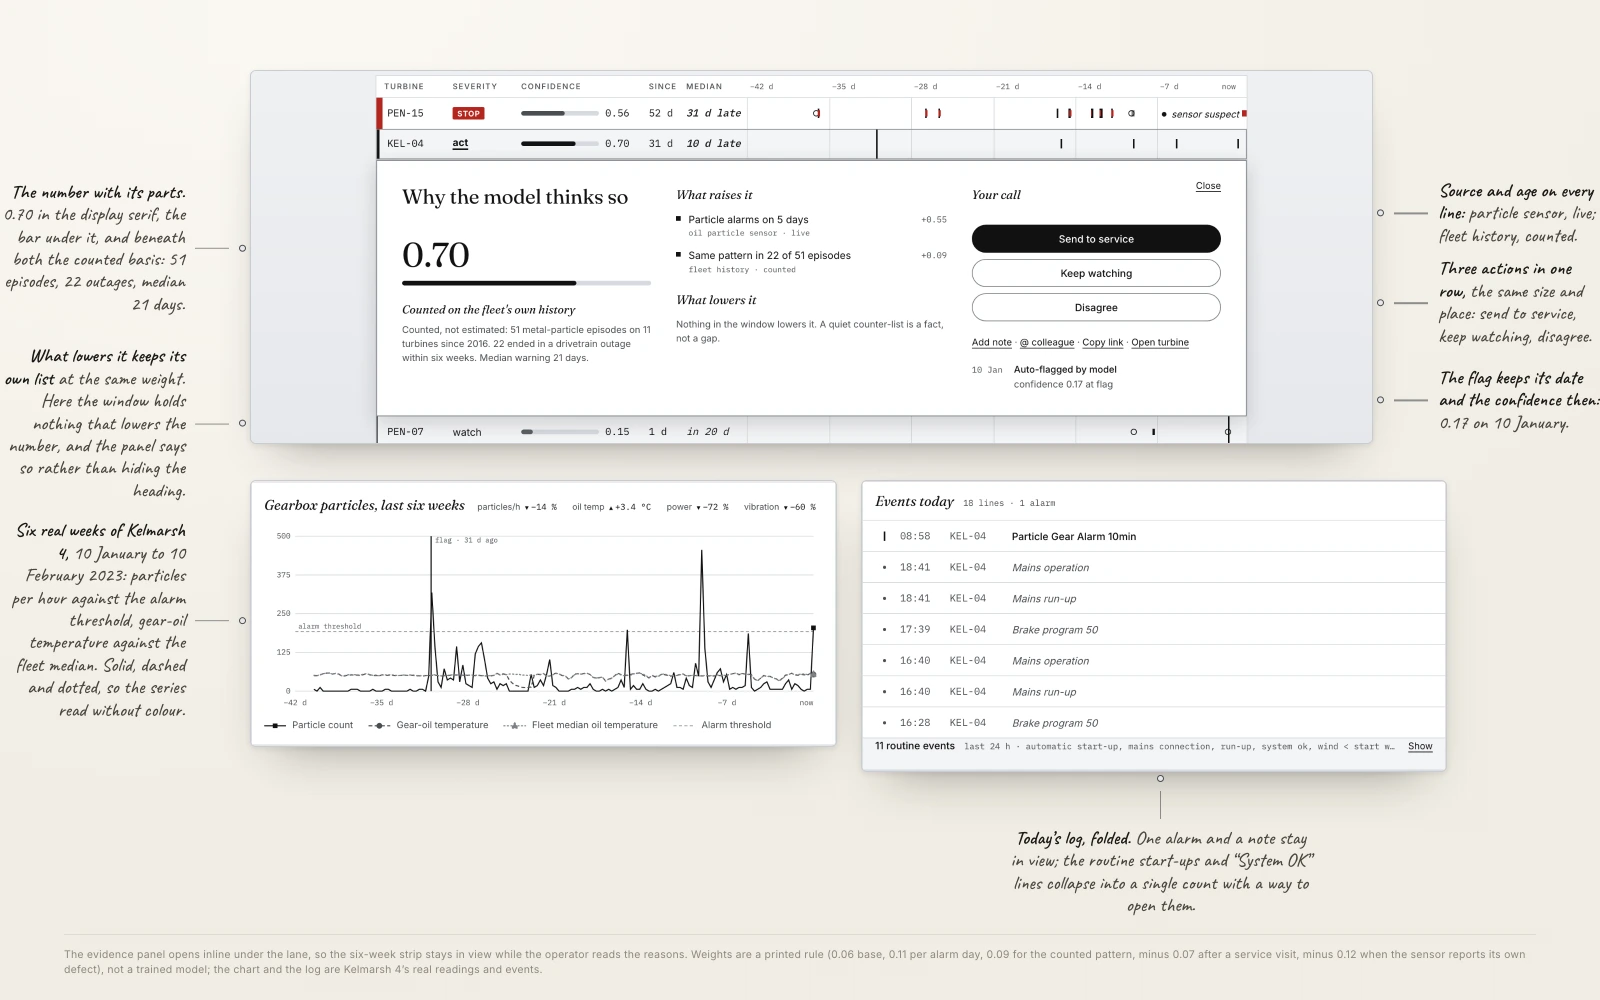
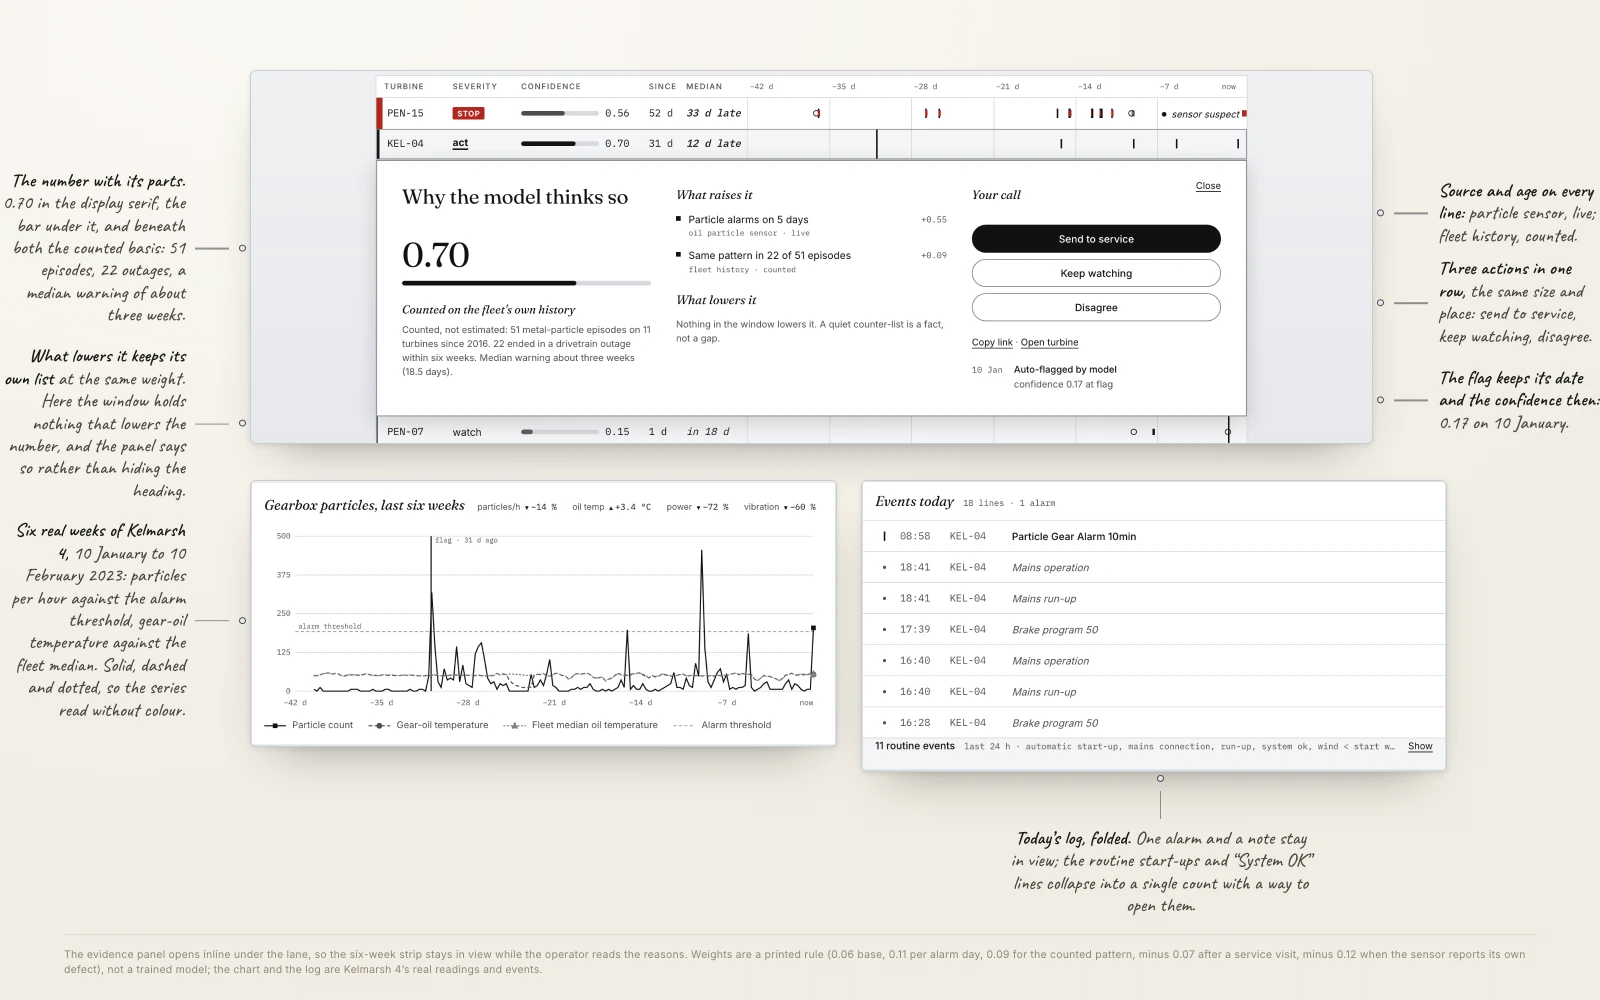
Metal in the oil: the median warning is 18.5 days, said as about three weeks
The 22 lead times have two middle values, 16 and 21; the earlier count took
the upper one. The page, the stats block and the basis plate now carry the
textbook median, the prose says about three weeks, and the plates are
re-captured from the prototype, which rounds to 19 whole days for its
lane arithmetic and says so.

Changed region(s): [[0.0, 0.155, 0.125, 0.341], [0.625, 0.341, 0.75, 0.372], [0.3438, 0.341, 0.375, 0.372]]

diff --git a/fleet-console.html b/fleet-console.html
@@ -484,7 +484,7 @@ footer.foot .next-h em{font-style:italic;color:var(--accent);}
     <div class="g-row"><div class="g-k">Problem</div><div class="g-v">An operator watching twenty turbines gets a flag from a failure model: this gearbox is probably failing. Sending a technician costs money and&nbsp;the technician may find nothing. Not sending risks a part that needs a crane to replace. In nine years of logs from these exact machines, the signal behind that flag was <strong>right 22 times out of 51</strong>. A screen that prints the percentage and&nbsp;stops has made the decision for the operator and&nbsp;kept the reason to itself.</div></div>
     <div class="g-row"><div class="g-k">My role</div><div class="g-v"><strong>Product designer, working alone.</strong> I chose the problem, found the open dataset and&nbsp;set the scope. I counted the base rates the interface quotes, built the token set and&nbsp;the component library in Figma, then wrote the prototype in code against those same tokens. Base primitives come from the shadcn/ui Figma kit; the Figma scaffolding and&nbsp;the code were built with Claude at my side, from my spec, and&nbsp;every value and&nbsp;every decision on the screens is mine.</div></div>
     <div class="g-row"><div class="g-k">Value</div>
-      <ul class="g-list"><li><strong>22 of 51:</strong> every number the interface quotes is counted from nine years of real turbine logs, not invented for a mockup</li><li><strong>Median 21 days:</strong> the warning a true flag buys, which is what makes “keep watching” a real option instead of a polite one</li><li><strong>One token chain:</strong> Figma variables to CSS custom properties to a Tailwind theme, so the library and&nbsp;the running prototype cannot drift apart</li></ul>
+      <ul class="g-list"><li><strong>22 of 51:</strong> every number the interface quotes is counted from nine years of real turbine logs, not invented for a mockup</li><li><strong>About three weeks of warning:</strong> the median lead a true flag buys, which is what makes “keep watching” a real option instead of a polite one</li><li><strong>One token chain:</strong> Figma variables to CSS custom properties to a Tailwind theme, so the library and&nbsp;the running prototype cannot drift apart</li></ul>
     </div>
     <div class="g-row"><div class="g-k">Try it</div>
       <div class="g-links"><a class="g-live-link" href="https://violawojcik.github.io/fleet-console/" target="_blank" rel="noopener">Open the prototype<svg viewBox="0 0 24 24"><path d="M7 17L17 7M17 7H9M17 7v8"></path></svg></a><a class="g-live-link g-live-link--alt" href="https://www.figma.com/design/MZInnUxno6SY95v9W7D4ap/" target="_blank" rel="noopener">Open the Figma file<svg viewBox="0 0 24 24"><path d="M7 17L17 7M17 7H9M17 7v8"></path></svg></a></div>
@@ -501,10 +501,10 @@ footer.foot .next-h em{font-style:italic;color:var(--accent);}
       <figcaption><span>The fleet as lanes: one turbine per row over the last six weeks, frozen on 10 February 2023, the day Kelmarsh 4 stopped itself. Twenty real machines; every mark is a logged event. Capture of the working prototype.</span></figcaption>
     </figure></section><section class="sec" id="data"><div class="col">
       <div class="eyebrow"><b>02</b> · The data</div>
-      <h2 class="h">Everything the interface claims is counted from nine years of real turbine logs</h2><p>There is no invented client here and&nbsp;no fictional brief. The console runs on <strong>open SCADA data from two British wind farms</strong>, Kelmarsh and&nbsp;Penmanshiel, released by Cubico Sustainable Investments under CC-BY-4.0: twenty Senvion turbines, readings every ten minutes, <strong>1.57 million logged events between 2016 and&nbsp;2024</strong>.</p><p>The signals the model leans on are real and&nbsp;they are named in the export: gear oil temperature, gear oil inlet pressure, front and&nbsp;rear bearing temperature, drive train acceleration, and&nbsp;a metal particle count in the gear oil. Of <strong>299 columns, 107 carry data and&nbsp;191 are empty for the whole year.</strong> The export marks anything missing or erroneous as NaN rather than zero, which is the distinction the interface has to keep: <strong>a zero is a measurement, a blank is the absence of one.</strong></p><p>The sentence the confidence panel quotes is counted, not assumed. Across both farms I grouped the metal particle alarms into episodes, alarms on one machine less than fourteen days apart, and&nbsp;checked what followed each one. <strong>Fifty-one episodes on eleven turbines. Twenty-two ended in a drivetrain forced outage inside six weeks.</strong> When the signal was right, the median warning it bought was twenty-one days; four times it bought none at all.</p><p>One number needed correcting before it could be used. The condition monitoring channels show only 65% coverage across 2016, which looks like a sensor dropping out. It is not. <strong>Those channels do not exist before May 2016 and&nbsp;run at 95 to 100% afterwards</strong>, so the gap is a commissioning date, not a fault. An interface built on the first reading would have been designed around a problem that was never there.</p></div><figure class="fig reveal wide">
+      <h2 class="h">Everything the interface claims is counted from nine years of real turbine logs</h2><p>There is no invented client here and&nbsp;no fictional brief. The console runs on <strong>open SCADA data from two British wind farms</strong>, Kelmarsh and&nbsp;Penmanshiel, released by Cubico Sustainable Investments under CC-BY-4.0: twenty Senvion turbines, readings every ten minutes, <strong>1.57 million logged events between 2016 and&nbsp;2024</strong>.</p><p>The signals the model leans on are real and&nbsp;they are named in the export: gear oil temperature, gear oil inlet pressure, front and&nbsp;rear bearing temperature, drive train acceleration, and&nbsp;a metal particle count in the gear oil. Of <strong>299 columns, 107 carry data and&nbsp;191 are empty for the whole year.</strong> The export marks anything missing or erroneous as NaN rather than zero, which is the distinction the interface has to keep: <strong>a zero is a measurement, a blank is the absence of one.</strong></p><p>The sentence the confidence panel quotes is counted, not assumed. Across both farms I grouped the metal particle alarms into episodes, alarms on one machine less than fourteen days apart, and&nbsp;checked what followed each one. <strong>Fifty-one episodes on eleven turbines. Twenty-two ended in a drivetrain forced outage inside six weeks.</strong> When the signal was right, the warning it bought was about three weeks: a median of 18.5 days, four times none at all.</p><p>One number needed correcting before it could be used. The condition monitoring channels show only 65% coverage across 2016, which looks like a sensor dropping out. It is not. <strong>Those channels do not exist before May 2016 and&nbsp;run at 95 to 100% afterwards</strong>, so the gap is a commissioning date, not a fault. An interface built on the first reading would have been designed around a problem that was never there.</p></div><figure class="fig reveal wide">
       <img src="fleet-console/assets/basis.webp" alt="The only sheet in this case study that is not a screen: 51 metal-particle alarm episodes on 11 of 20 turbines, 2016 to 2024, and how much warning the 22 true ones gave. Counted from 1.57 million logged events." loading="lazy">
       <figcaption><span>The only sheet in this case study that is not a screen: 51 metal-particle alarm episodes on 11 of 20 turbines, 2016 to 2024, and&nbsp;how much warning the 22 true ones gave. Counted from 1.57 million logged events.</span></figcaption>
-    </figure><div class="col"><div class="stats reveal"><div class="src">Counted from the Kelmarsh and&nbsp;Penmanshiel event logs · Zenodo 16807551 and&nbsp;16807304 · CC-BY-4.0</div><div class="row"><div class="stat"><div class="fig">22 of 51</div><div class="lab">alarm episodes ended in a drivetrain outage within six weeks</div></div><div class="stat"><div class="fig">21 days</div><div class="lab">median warning when the signal was right, range 0 to 38</div></div><div class="stat"><div class="fig">1.57 M</div><div class="lab">logged events on twenty turbines, 2016 to 2024</div></div><div class="stat"><div class="fig">57.8%</div><div class="lab">of all lines are five routine messages: start-up, run-up, system OK, low wind, mains</div></div></div></div></div></section><section class="sec" id="density"><div class="col">
+    </figure><div class="col"><div class="stats reveal"><div class="src">Counted from the Kelmarsh and&nbsp;Penmanshiel event logs · Zenodo 16807551 and&nbsp;16807304 · CC-BY-4.0</div><div class="row"><div class="stat"><div class="fig">22 of 51</div><div class="lab">alarm episodes ended in a drivetrain outage within six weeks</div></div><div class="stat"><div class="fig">18.5 days</div><div class="lab">median warning when the signal was right: the middle of 22 values, range 0 to 38</div></div><div class="stat"><div class="fig">1.57 M</div><div class="lab">logged events on twenty turbines, 2016 to 2024</div></div><div class="stat"><div class="fig">57.8%</div><div class="lab">of all lines are five routine messages: start-up, run-up, system OK, low wind, mains</div></div></div></div></div></section><section class="sec" id="density"><div class="col">
       <div class="eyebrow"><b>03</b> · Density</div>
       <h2 class="h">Fifty-eight per cent of the log is the turbine saying that it is fine</h2><p>Nine years on six machines produced <strong>504,180 events, about twenty-eight per turbine per day.</strong> Sorted by time, which is how an event feed arrives by default, the screen is unreadable in a way that has nothing to do with styling. <strong>Five routine messages account for 57.8% of every line ever written</strong>: automatic start-up, run-up, system OK, wind below start wind, mains connection. The log spends most of its life reporting that the turbine woke up and&nbsp;there is no wind.</p><p>The events that matter are rare in the same window. Across those nine years: fifteen metal particle alarms, seven stops for low gearbox oil pressure costing 203 hours of lost production, six warnings for gearbox bearing temperature. <strong>The thing the operator needs is a dozen lines hidden in half a million.</strong></p><p>So the naive version fails before any of it is drawn, and&nbsp;four decisions in the row itself carry most of the fix. <strong>Numbers set in monospace</strong>, right-aligned, so columns line up under a moving eye instead of jittering. <strong>Confidence as a bar with the number beside it</strong>, never the number alone, because a bar can be compared across rows without being read. <strong>A missing reading written as the words “no signal”</strong>, because a dash and&nbsp;a zero look alike at a glance and&nbsp;mean opposite things. <strong>Severity as ink and&nbsp;weight rather than a coloured dot</strong>: a grey word, a black word, bold with a rule, white on the one red block, plus a left bar of 0, 2, 4 or 8 pixels, and&nbsp;the rows sorted by it. The routine lines fold into one count with a way to open them; the alarm and&nbsp;the operator’s note stay in view.</p></div><figure class="fig reveal wide">
       <img src="fleet-console/assets/density.webp" alt="The same eight machines and the same readings twice: a default dashboard on the left, the prototype’s compact table on the right, with the four decisions in the row marked. Under both, the same morning’s log, raw and folded." loading="lazy">
@@ -601,7 +601,7 @@ const T = {
         k:'Value',
         items:[
           '<strong>22 of 51:</strong> every number the interface quotes is counted from nine years of real turbine logs, not invented for a mockup',
-          '<strong>Median 21 days:</strong> the warning a true flag buys, which is what makes “keep watching” a real option instead of a polite one',
+          '<strong>About three weeks of warning:</strong> the median lead a true flag buys, which is what makes “keep watching” a real option instead of a polite one',
           '<strong>One token chain:</strong> Figma variables to CSS custom properties to a Tailwind theme, so the library and the running prototype cannot drift apart'
         ]
       },
@@ -641,7 +641,7 @@ const T = {
         k:'Verdi',
         items:[
           '<strong>22 av 51:</strong> hvert tall grensesnittet siterer er telt fra ni år med ekte turbinlogger, ikke funnet på for en skisse',
-          '<strong>Median 21 dager:</strong> forvarselet et sant flagg kjøper, og det er det som gjør «fortsett å følge med» til et reelt valg i stedet for et høflig ett',
+          '<strong>Omtrent tre ukers forvarsel:</strong> median-tiden et sant flagg kjøper, og det er det som gjør «fortsett å følge med» til et reelt valg i stedet for et høflig ett',
           '<strong>Én tokenkjede:</strong> Figma-variabler til CSS custom properties til et Tailwind-tema, så biblioteket og den kjørende prototypen ikke kan gli fra hverandre'
         ]
       },
@@ -681,7 +681,7 @@ const T = {
         k:'Valor',
         items:[
           '<strong>22 de 51:</strong> cada número que cita la interfaz está contado a partir de nueve años de registros reales de turbinas, no inventado para una maqueta',
-          '<strong>Mediana de 21 días:</strong> el margen de aviso que compra una alerta acertada, y lo que convierte «seguir observando» en una opción real y no en una cortesía',
+          '<strong>Unas tres semanas de aviso:</strong> la mediana del margen que compra una alerta acertada, y lo que convierte «seguir observando» en una opción real y no en una cortesía',
           '<strong>Una sola cadena de tokens:</strong> variables de Figma a propiedades CSS a un tema de Tailwind, para que la biblioteca y el prototipo en marcha no puedan separarse'
         ]
       },
@@ -783,15 +783,15 @@ const SECTIONS = [
     body:{
       en:['There is no invented client here and no fictional brief. The console runs on <strong>open SCADA data from two British wind farms</strong>, Kelmarsh and Penmanshiel, released by Cubico Sustainable Investments under CC-BY-4.0: twenty Senvion turbines, readings every ten minutes, <strong>1.57 million logged events between 2016 and 2024</strong>.',
           'The signals the model leans on are real and they are named in the export: gear oil temperature, gear oil inlet pressure, front and rear bearing temperature, drive train acceleration, and a metal particle count in the gear oil. Of <strong>299 columns, 107 carry data and 191 are empty for the whole year.</strong> The export marks anything missing or erroneous as NaN rather than zero, which is the distinction the interface has to keep: <strong>a zero is a measurement, a blank is the absence of one.</strong>',
-          'The sentence the confidence panel quotes is counted, not assumed. Across both farms I grouped the metal particle alarms into episodes, alarms on one machine less than fourteen days apart, and checked what followed each one. <strong>Fifty-one episodes on eleven turbines. Twenty-two ended in a drivetrain forced outage inside six weeks.</strong> When the signal was right, the median warning it bought was twenty-one days; four times it bought none at all.',
+          'The sentence the confidence panel quotes is counted, not assumed. Across both farms I grouped the metal particle alarms into episodes, alarms on one machine less than fourteen days apart, and checked what followed each one. <strong>Fifty-one episodes on eleven turbines. Twenty-two ended in a drivetrain forced outage inside six weeks.</strong> When the signal was right, the warning it bought was about three weeks: a median of 18.5 days, four times none at all.',
           'One number needed correcting before it could be used. The condition monitoring channels show only 65% coverage across 2016, which looks like a sensor dropping out. It is not. <strong>Those channels do not exist before May 2016 and run at 95 to 100% afterwards</strong>, so the gap is a commissioning date, not a fault. An interface built on the first reading would have been designed around a problem that was never there.'],
       no:['Det finnes ingen oppdiktet kunde her og ingen fiktiv brief. Konsollen kjører på <strong>åpne SCADA-data fra to britiske vindparker</strong>, Kelmarsh og Penmanshiel, utgitt av Cubico Sustainable Investments under CC-BY-4.0: tjue Senvion-turbiner, avlesninger hvert tiende minutt, <strong>1,57 millioner loggede hendelser mellom 2016 og 2024</strong>.',
           'Signalene modellen lener seg på er ekte, og de er navngitt i eksporten: oljetemperatur i girkassen, oljetrykk ved innløpet, temperatur i fremre og bakre lager, akselerasjon i drivlinjen, og et partikkeltall i girkasseoljen. Av <strong>299 kolonner har 107 data, og 191 er tomme hele året.</strong> Eksporten merker alt som mangler eller er feil som NaN i stedet for null, og det er skillet grensesnittet må holde på: <strong>en null er en måling, et tomt felt er fraværet av en.</strong>',
-          'Setningen sikkerhetspanelet siterer er telt, ikke antatt. På tvers av begge parkene grupperte jeg metallpartikkelalarmene i episoder, alarmer på én maskin med mindre enn fjorten dagers mellomrom, og sjekket hva som fulgte etter hver av dem. <strong>Femtien episoder på elleve turbiner. Tjueto endte i en tvungen driftsstans i drivlinjen innen seks uker.</strong> Når signalet hadde rett, var median-forvarselet det kjøpte tjueen dager; fire ganger kjøpte det ingenting.',
+          'Setningen sikkerhetspanelet siterer er telt, ikke antatt. På tvers av begge parkene grupperte jeg metallpartikkelalarmene i episoder, alarmer på én maskin med mindre enn fjorten dagers mellomrom, og sjekket hva som fulgte etter hver av dem. <strong>Femtien episoder på elleve turbiner. Tjueto endte i en tvungen driftsstans i drivlinjen innen seks uker.</strong> Når signalet hadde rett, var forvarselet det kjøpte omtrent tre uker: en median på 18,5 dager, fire ganger ingenting.',
           'Ett tall måtte rettes før det kunne brukes. Tilstandsovervåkingskanalene viser bare 65 % dekning gjennom 2016, noe som ser ut som en sensor som faller ut. Det er det ikke. <strong>De kanalene finnes ikke før mai 2016 og ligger på 95 til 100 % etterpå</strong>, så hullet er en idriftsettelsesdato, ikke en feil. Et grensesnitt bygget på den første avlesningen ville vært designet rundt et problem som aldri fantes.'],
       es:['Aquí no hay un cliente inventado ni un encargo ficticio. La consola funciona con <strong>datos SCADA abiertos de dos parques eólicos británicos</strong>, Kelmarsh y Penmanshiel, publicados por Cubico Sustainable Investments bajo CC-BY-4.0: veinte turbinas Senvion, lecturas cada diez minutos, <strong>1,57 millones de eventos registrados entre 2016 y 2024</strong>.',
        'Las señales en las que se apoya el modelo son reales y tienen nombre en la exportación: temperatura del aceite de la multiplicadora, presión del aceite en la entrada, temperatura de los rodamientos delantero y trasero, aceleración del tren de transmisión y un recuento de partículas metálicas en el aceite. De <strong>299 columnas, 107 llevan datos y 191 están vacías todo el año.</strong> La exportación marca todo lo que falta o es erróneo como NaN y no como cero, y esa es la distinción que la interfaz tiene que mantener: <strong>un cero es una medición, un blanco es la ausencia de una.</strong>',
-       'La frase que cita el panel de confianza está contada, no supuesta. En ambos parques agrupé las alarmas por partículas metálicas en episodios, alarmas en una misma máquina con menos de catorce días de separación, y comprobé qué siguió a cada uno. <strong>Cincuenta y un episodios en once turbinas. Veintidós terminaron en una parada forzada del tren de transmisión en menos de seis semanas.</strong> Cuando la señal acertó, la mediana de aviso que compró fue de veintiún días; cuatro veces no compró ninguno.',
+       'La frase que cita el panel de confianza está contada, no supuesta. En ambos parques agrupé las alarmas por partículas metálicas en episodios, alarmas en una misma máquina con menos de catorce días de separación, y comprobé qué siguió a cada uno. <strong>Cincuenta y un episodios en once turbinas. Veintidós terminaron en una parada forzada del tren de transmisión en menos de seis semanas.</strong> Cuando la señal acertó, el aviso que compró fue de unas tres semanas: una mediana de 18,5 días, cuatro veces ninguno.',
        'Un número necesitaba corrección antes de poder usarse. Los canales de monitorización de estado muestran solo un 65 % de cobertura en 2016, lo que parece un sensor que se cae. No lo es. <strong>Esos canales no existen antes de mayo de 2016 y funcionan al 95 o 100 % después</strong>, así que el hueco es una fecha de puesta en marcha, no una avería. Una interfaz construida sobre la primera lectura se habría diseñado alrededor de un problema que nunca existió.']
     },
     assets:['basis'],
@@ -801,7 +801,7 @@ const SECTIONS = [
            es:'Contado a partir de los registros de eventos de Kelmarsh y Penmanshiel · Zenodo 16807551 y 16807304 · CC-BY-4.0'},
       items:[
         {fig:'22 of 51', lab:{en:'alarm episodes ended in a drivetrain outage within six weeks', no:'alarmepisoder endte i en driftsstans i drivlinjen innen seks uker', es:'episodios de alarma terminaron en una parada del tren de transmisión en seis semanas'}},
-        {fig:'21 days',  lab:{en:'median warning when the signal was right, range 0 to 38', no:'median-forvarsel når signalet hadde rett, spenn 0 til 38', es:'mediana de aviso cuando la señal acertó, rango de 0 a 38'}},
+        {fig:'18.5 days', lab:{en:'median warning when the signal was right: the middle of 22 values, range 0 to 38', no:'median-forvarsel når signalet hadde rett: midten av 22 verdier, spenn 0 til 38', es:'mediana de aviso cuando la señal acertó: el centro de 22 valores, rango de 0 a 38'}},
         {fig:'1.57 M',   lab:{en:'logged events on twenty turbines, 2016 to 2024', no:'loggede hendelser på tjue turbiner, 2016 til 2024', es:'eventos registrados en veinte turbinas, de 2016 a 2024'}},
         {fig:'57.8%',    lab:{en:'of all lines are five routine messages: start-up, run-up, system OK, low wind, mains', no:'av alle linjer er fem rutinemeldinger: oppstart, opptrapping, system OK, lite vind, nett', es:'de todas las líneas son cinco mensajes rutinarios: arranque, aceleración, sistema OK, poco viento, red'}}
       ]
